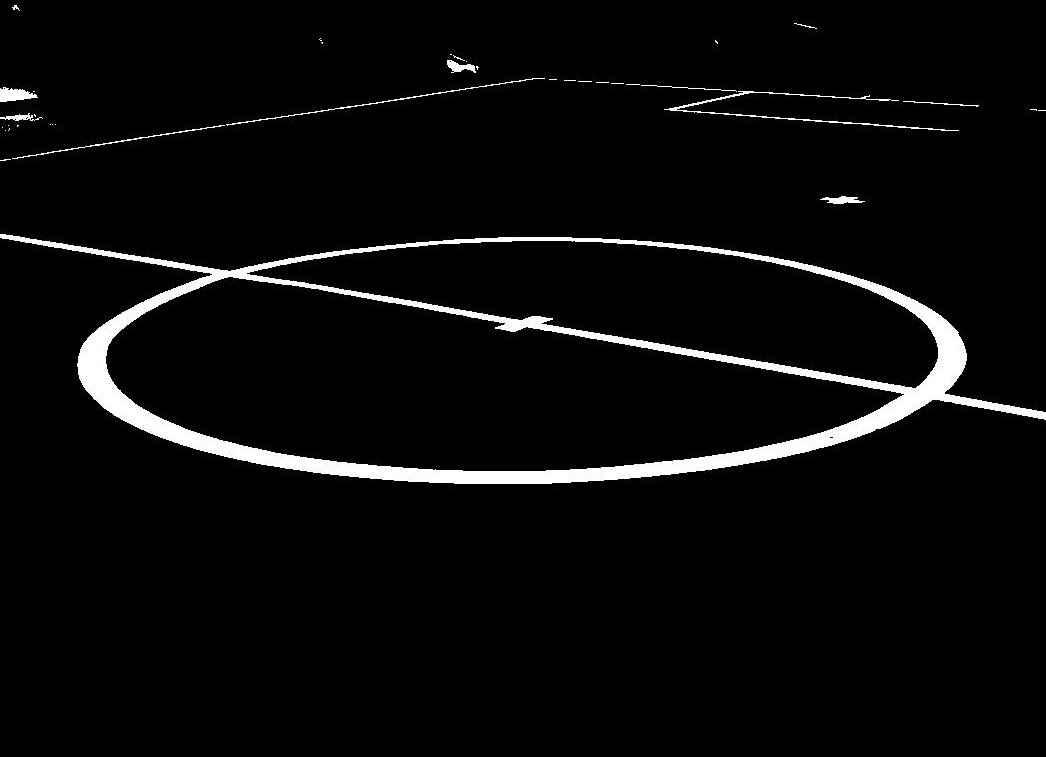
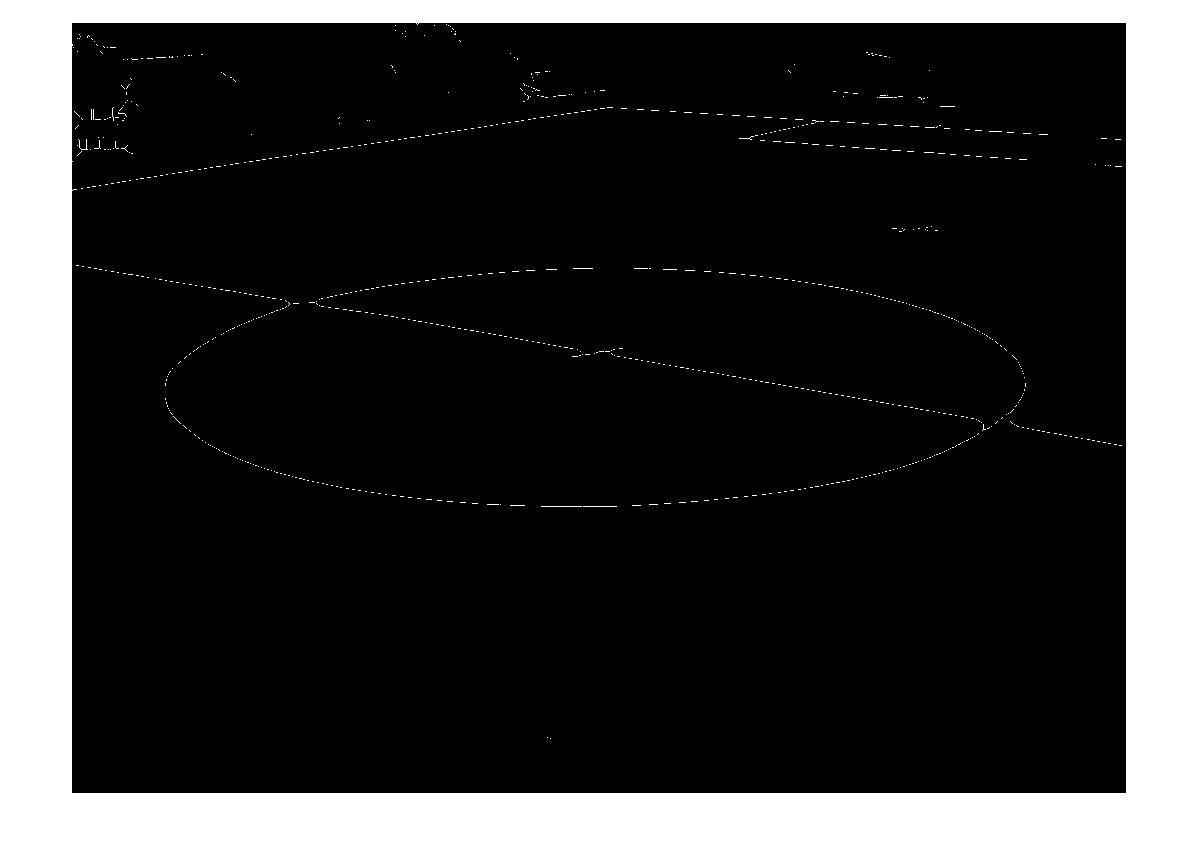
changes in line detection

diff --git a/NaoLeague/FeatureExtraction/LineExtraction.cpp b/NaoLeague/FeatureExtraction/LineExtraction.cpp
@@ -27,13 +27,14 @@ int main(int argc, char** argv)
 	//maxLineGap – Maximum allowed gap between points on the same line to link them.
 
     vector<Vec4i> lines;
-    HoughLinesP( dst, lines, 1, CV_PI/180, 80, 30, 10 );
+    HoughLinesP( dst, lines, 1, CV_PI/180, 10, 20, 20 );
     for( size_t i = 0; i < lines.size(); i++ )
     {
         line( color_dst, Point(lines[i][0], lines[i][1]),
-            Point(lines[i][2], lines[i][3]), Scalar(0,0,255), 3, 8 );
+            Point(lines[i][2], lines[i][3]), Scalar(0,0,255), 2, 8 );
     }
 
+	printf("%d",lines.size());
     namedWindow( "Source", 1 );
     imshow( "Source", src );
 
